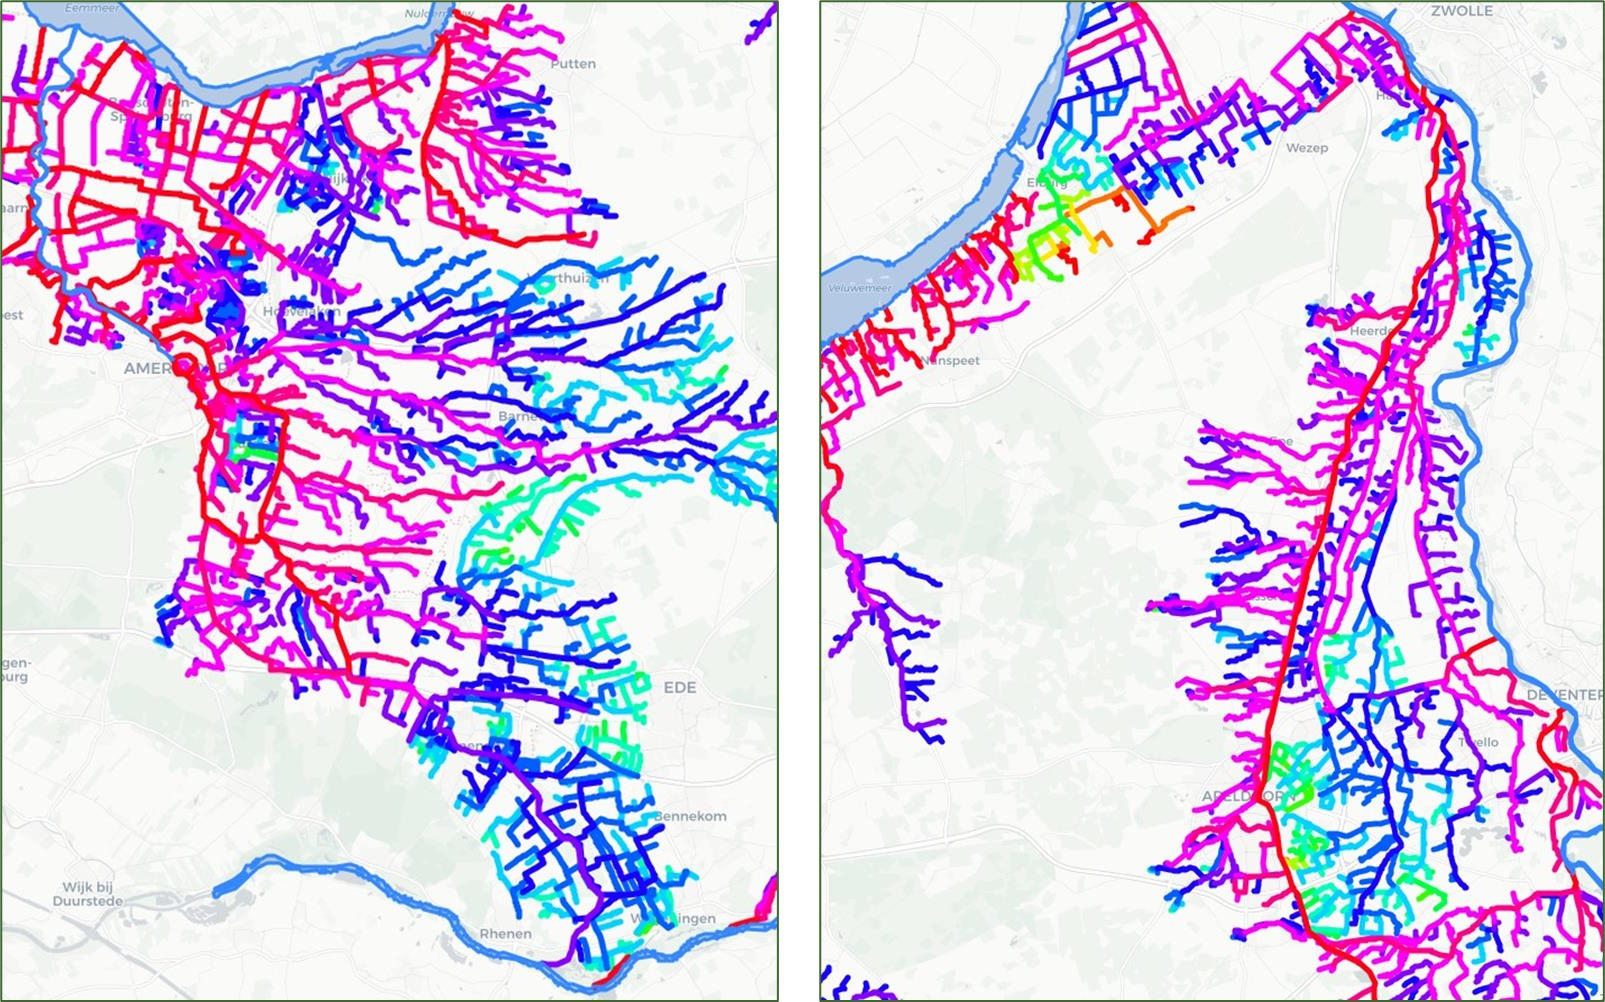
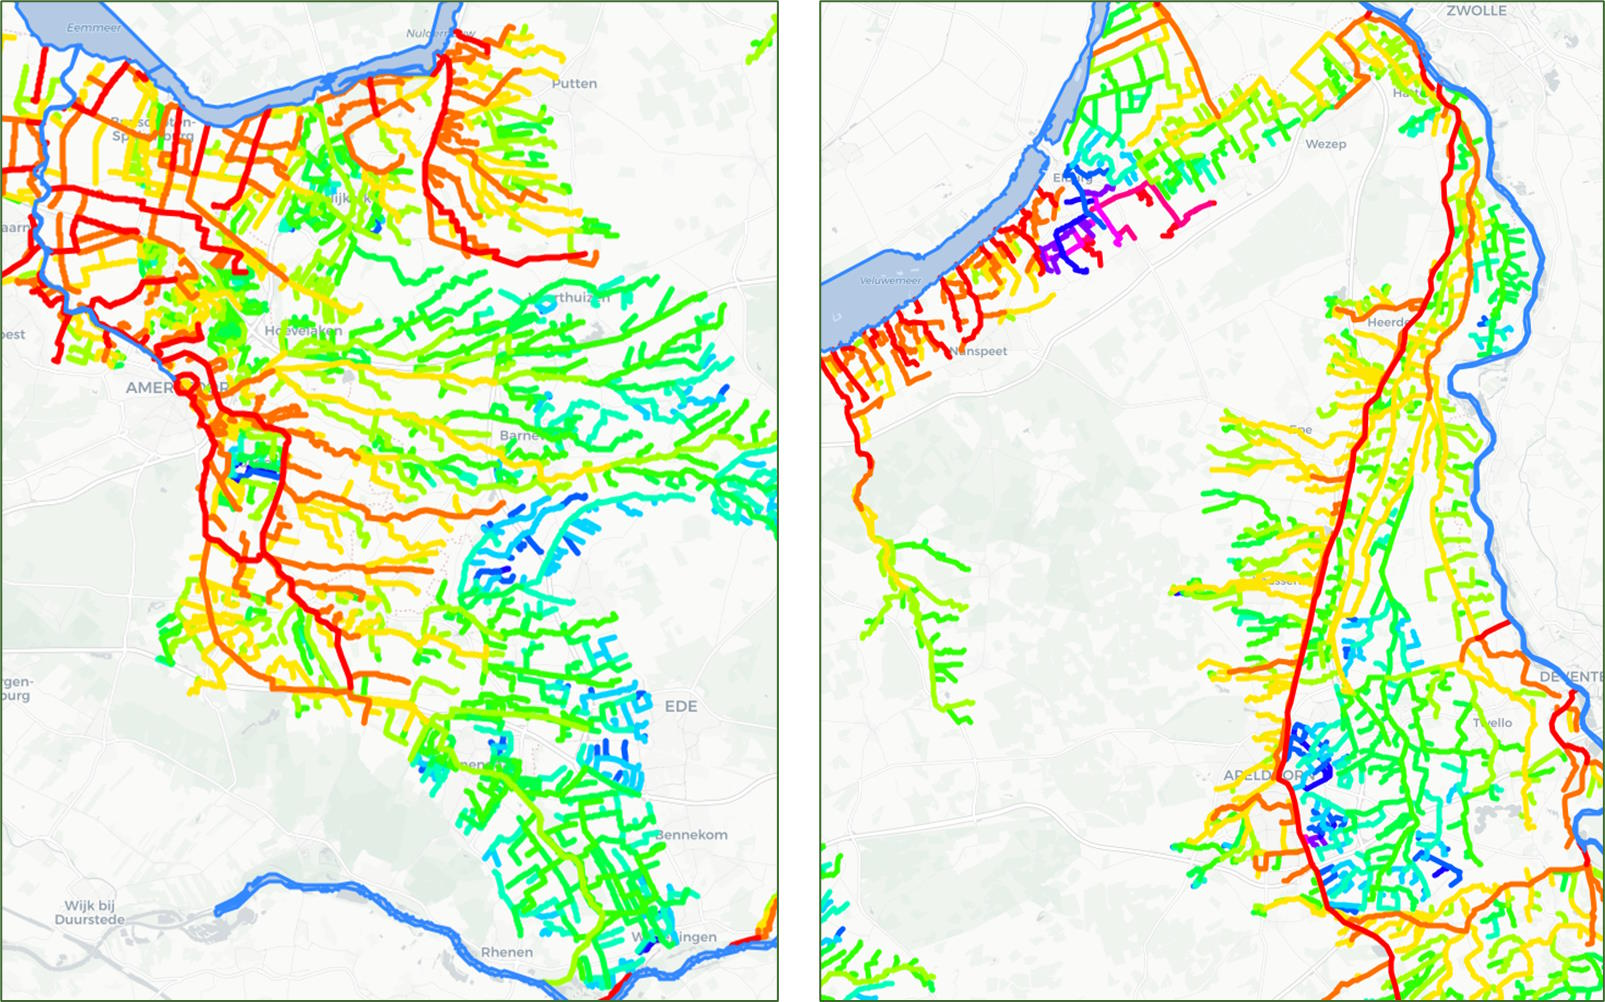
update figures

diff --git a/docs/description_workflows.rst b/docs/description_workflows.rst
@@ -19,11 +19,11 @@ Ook vormen de greppels en sloten vaak een verweven netwerk en wil men graag wete
 
 De workflow bestaat uit de volgende stappen:
 
-* Zoekt alle mogelijke verbindingen (duikers) tussen losliggende C-watergangen en de hoofdwatergangen (A/B);
-* Bepaalt voor elke mogelijke verbinding/duiker of er een snelweg/spoor/weg of peilgebiedsgrens wordt gekruist;
+* Zoekt alle mogelijke verbindingen (duikers) tussen losliggende C-watergangen en de hoofdwatergangen (A/B) met een opgegeven maximale lengte (standaard 40meter);
+* Bepaalt voor elke mogelijke verbinding/duiker of er een snelweg/spoorweg/weg of peilgebiedsgrens wordt gekruist;
 * Voorziet elke mogelijke verbinding/duiker van een score op basis van criteria (kruisingen, lengte duiker, richting duiker t.o.v. watergang);
-* Zoekt de duikers met de hoogste scores tussen losliggende C-watergangen en daarmee ook de verbindingen met de hoofdwatergangen (A/B);
-* De richting van de C-watergangen wordt bepaald door de kortste afstand tot een hoofdwatergang te zoeken. Idealiter zou hier gekeken worden naar het verhang richting een uitstroompunt op een hoofdwatergang.
+* Selecteert de duikers met de hoogste scores tussen losliggende C-watergangen en de verbindingen met de hoofdwatergangen (A/B);
+* De afvoerrichting van de C-watergangen is niet bekend en wordt bepaald aan de hand van de kortste route tot een hoofdwatergang en welke kant dat dan op is. Idealiter zou hier gekeken worden naar het verhang richting een uitstroompunt op een hoofdwatergang.
 
 Zie ook:
 
@@ -34,14 +34,14 @@ Zie ook:
     :width: 800px
     :align: center
 
-Figuur: Duikergenerator - het selecteren van de verbindingen (duikers, zie rode lijntjes) tussen de C-watergangen
+Figuur: Duikergenerator - Geselecteerde verbindingen/duikers (de rode lijntjes) tussen de C-watergangen onderling en met de A-/B-watergangen.
 
 .. image:: _static/generator_culvert_locations_2.jpg
     :alt: Generator Order Levels (workflow duiker-generator)
     :width: 800px
     :align: center
 
-Figuur: Afleiden welke C-watergangen bij welke uitstroompunten in de A-/B-watergangen horen (dit gebeurt nu op basis van de kortste route)
+Figuur: Afleiden welke C-watergangen bij welke uitstroompunten in de A-/B-watergangen horen (op basis van de kortste route). Hieruit kan de richting bepaald worden.
 
 
 GeneratorOrderLevels (workflow Orde-codering)
